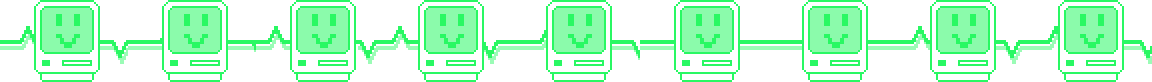
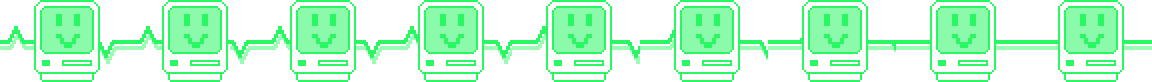
feat: adding max limit

diff --git a/src/components/StakingMachine/BoxContent/StakingOnGoing.tsx b/src/components/StakingMachine/BoxContent/StakingOnGoing.tsx
@@ -3,7 +3,7 @@ import { PlayerInfo } from '../Common'
 import { Image } from '@/components/Image'
 import { BitJade, RightAngle } from '@/assets/icons'
 import { ChooseNftModal } from './ChooseNftModal'
-import React, { useState } from 'react'
+import React, { useMemo, useState } from 'react'
 import { StakeButton } from './StakeButton'
 
 import useUserStakes from '@/hooks/useUserStakes'
@@ -11,9 +11,17 @@ import { cn } from '@/utils/cn'
 
 export const StakingOnGoing: React.FC = () => {
   const [isChooseModalOpen, setIsChooseModalOpen] = useState(false)
-  const { userStakes, jadeBalance } = useUserStakes()
+  const { userStakes, jadeBalance, perAddressLimit } = useUserStakes()
 
-  const userStakesNum = userStakes?.length || 0
+  const userStakesNum = useMemo(
+    () => userStakes?.length || 0,
+    [userStakes?.length]
+  )
+
+  const reachingMaxStakes = useMemo(
+    () => userStakesNum === perAddressLimit,
+    [perAddressLimit, userStakesNum]
+  )
 
   return (
     <>
@@ -24,13 +32,18 @@ export const StakingOnGoing: React.FC = () => {
       <div className="pt-4">
         <div className="mb-8 flex items-end gap-[104px]">
           <PlayerInfo />
-          <div className="whitespace-nowrap font-smb">staking ongoing...</div>
+          <div className="whitespace-nowrap font-smb text-sm">
+            staking ongoing...
+          </div>
           <PlayerInfo className="invisible" />
         </div>
 
         <div className="flex items-center justify-center gap-x-[68px]">
           <div className="flex flex-col items-center gap-y-2.5">
-            <div className="relative">
+            <div
+              className={cn('relative', {
+                'pt-4': userStakesNum > 2
+              })}>
               <MBitdiscBlack num={userStakesNum} />
               {userStakesNum > 1 && (
                 <MBitdiscBlack
@@ -47,21 +60,31 @@ export const StakingOnGoing: React.FC = () => {
             </div>
             <div className="text-base text-cyan">M-bitDisc-Black</div>
           </div>
-          <div className="relative flex h-[169px] w-[265px] flex-col items-center justify-between border-[3px] border-cyan bg-cyan/20 py-[25px] text-sm">
-            <div className="font-smb text-[21px] text-cyan">REWARDS</div>
-            <div className="flex items-center justify-center gap-x-2 font-smb text-xs text-cyan">
-              <span>BITJADE</span>
-              <BitJade />
-              <span>X{jadeBalance || '???'}</span>
-            </div>
-            <StakeButton onClick={() => setIsChooseModalOpen(true)}>
-              Stake more
-            </StakeButton>
+          <div className="flex flex-col items-center">
+            <div className="relative flex max-h-[169px] w-[265px] flex-col items-center justify-start gap-y-3 border-[3px] border-cyan bg-cyan/20 py-4 text-sm">
+              <div className="font-smb text-sm text-cyan">REWARDS so far</div>
+              <div className="flex flex-col items-center justify-center gap-1 font-psm text-cyan">
+                <BitJade />
+                <span className="font-bold">
+                  bitJade X{jadeBalance || '???'}
+                </span>
+              </div>
+              {!reachingMaxStakes && (
+                <StakeButton onClick={() => setIsChooseModalOpen(true)}>
+                  Stake more
+                </StakeButton>
+              )}
 
-            <RightAngle className="absolute left-0 top-0 text-green2" />
-            <RightAngle className="absolute right-0 top-0 rotate-90 text-green2" />
-            <RightAngle className="absolute bottom-0 right-0 rotate-180 text-green2" />
-            <RightAngle className="absolute bottom-0 left-0 -rotate-90 text-green2" />
+              <RightAngle className="absolute left-[-1px] top-[-1px] text-cyan" />
+              <RightAngle className="absolute right-[-1px] top-[-1px] rotate-90 text-cyan" />
+              <RightAngle className="absolute bottom-[-1px] right-[-1px] rotate-180 text-cyan" />
+              <RightAngle className="absolute bottom-[-1px] left-[-1px] -rotate-90 text-cyan" />
+            </div>
+            {reachingMaxStakes && (
+              <p className="mt-2.5 font-psm text-cyan">
+                Max {perAddressLimit} NFT can be staked
+              </p>
+            )}
           </div>
         </div>
       </div>

diff --git a/src/hooks/useUserStakes.ts b/src/hooks/useUserStakes.ts
@@ -4,6 +4,7 @@ import { getTransactions } from '@/store/common/reducer'
 import {
   useReadStakingContractGetStakeRewards,
   useReadStakingContractGetUserStakes,
+  useReadStakingContractPerAddressLimit,
   useReadStakingContractStakingEnded
 } from '@/contracts/Staking'
 import useContractAddresses from './useNetworkAddresses'
@@ -31,6 +32,11 @@ const useUserStakes = () => {
     address: contractAddresses?.staking
   })
 
+  const { data: perAddressLimit, isLoading: isFetchingPerAddressLimit } =
+    useReadStakingContractPerAddressLimit({
+      address: contractAddresses?.staking
+    })
+
   const { data: stakeRewards, refetch: refetchStakesReward } =
     useReadStakingContractGetStakeRewards({
       address: contractAddresses?.staking,
@@ -43,6 +49,14 @@ const useUserStakes = () => {
     [stakeRewards]
   )
 
+  const isFetchingAll = useMemo(
+    () =>
+      isFetchingUserStakes ||
+      isFetchingIsStakingEnded ||
+      isFetchingPerAddressLimit,
+    [isFetchingIsStakingEnded, isFetchingUserStakes, isFetchingPerAddressLimit]
+  )
+
   useEffect(() => {
     refetchStakingState()
     refetchUserStakes()
@@ -52,11 +66,13 @@ const useUserStakes = () => {
 
   return {
     userStakes,
+    isFetchingAll,
     isFetchingUserStakes,
     isFetchingIsStakingEnded,
     isStakingEnded,
     refetchStakingState,
     refetchUserStakes,
+    perAddressLimit,
     jadeBalance,
     stakeRewards
   }

diff --git a/src/components/StakingMachine/BoxContent/index.tsx b/src/components/StakingMachine/BoxContent/index.tsx
@@ -18,18 +18,13 @@ export const BoxContent: React.FC<BoxContentProps> = ({
   isHistoryPage
 }) => {
   const { address, isLoading: isConnecting } = useUserInfo()
-  const {
-    userStakes,
-    isFetchingIsStakingEnded,
-    isFetchingUserStakes,
-    isStakingEnded
-  } = useUserStakes()
+  const { userStakes, isFetchingAll, isStakingEnded } = useUserStakes()
 
   const renderContent = useMemo(() => {
     if (isConnecting) return <OnChainLoading />
 
     if (address) {
-      if (isFetchingUserStakes || isFetchingIsStakingEnded) {
+      if (isFetchingAll) {
         return <OnChainLoading />
       }
       if (isHistoryPage) {
@@ -46,10 +41,9 @@ export const BoxContent: React.FC<BoxContentProps> = ({
 
     return <NotConnected />
   }, [
-    address,
     isConnecting,
-    isFetchingUserStakes,
-    isFetchingIsStakingEnded,
+    address,
+    isFetchingAll,
     isHistoryPage,
     isStakingEnded,
     userStakes?.length,

diff --git a/src/components/StakingMachine/BoxContent/NotConnected.tsx b/src/components/StakingMachine/BoxContent/NotConnected.tsx
@@ -10,9 +10,9 @@ export const NotConnected: React.FC = () => {
         <Image src={getIllustrationUrl('disccoins')} />
         <div className="w-[384px] text-sm">
           <p>
-            Now, you can stake your bitDisc to mine bitGem. The bitGem earned be
-            converted to respective whitelist token amount available to purchase
-            at TGE.
+            Now, you can stake your bitDisc to mine bitJade. BitJade will be
+            converted to the corresponding token quotas that can be purchased
+            during TGE.
           </p>
           <br />
           <p>Connect wallet to find more...</p>

diff --git a/src/pages/Main/StakingPage.tsx b/src/pages/Main/StakingPage.tsx
@@ -6,7 +6,6 @@ import { MEDIA } from '@/config/links'
 import { cn } from '@/utils/cn'
 import { CanvasFrames } from '@/components/CanvasFrames'
 import { useFetchArticles } from '@/hooks/useFetchArticles'
-import { CopyRightAndLinks } from '@/components/CopyRightAndLinks'
 import { useOnScreen } from '@/hooks/useOnScreen'
 import { CoinIcon } from '@/assets/icons'
 import { StakingMachine } from '@/components/StakingMachine'
@@ -47,7 +46,6 @@ export const StakingPage: React.FC = () => {
         </div>
       </div>
       <Header wallet />
-      {/* <CopyRightAndLinks /> */}
     </div>
   )
 }

diff --git a/src/contracts/Staking.ts b/src/contracts/Staking.ts
@@ -10,6 +10,7 @@ import {
 //////////////////////////////////////////////////////////////////////////////////////////////////////////////////////////////////////////////////////////////////////
 
 export const stakingContractAbi = [
+  { type: 'constructor', inputs: [], stateMutability: 'nonpayable' },
   { type: 'error', inputs: [], name: 'AlreadyStaked' },
   { type: 'error', inputs: [], name: 'AlreadyWithdrawn' },
   { type: 'error', inputs: [], name: 'MaxParticipantsReached' },

diff --git a/src/components/StakingMachine/BoxContent/OnchainLoading.scss b/src/components/StakingMachine/BoxContent/OnchainLoading.scss
@@ -5,5 +5,5 @@
 }
 
 #onchain-loader {
-  animation: play 0.8s steps(9) infinite;
+  animation: play 1s steps(9) infinite;
 }
